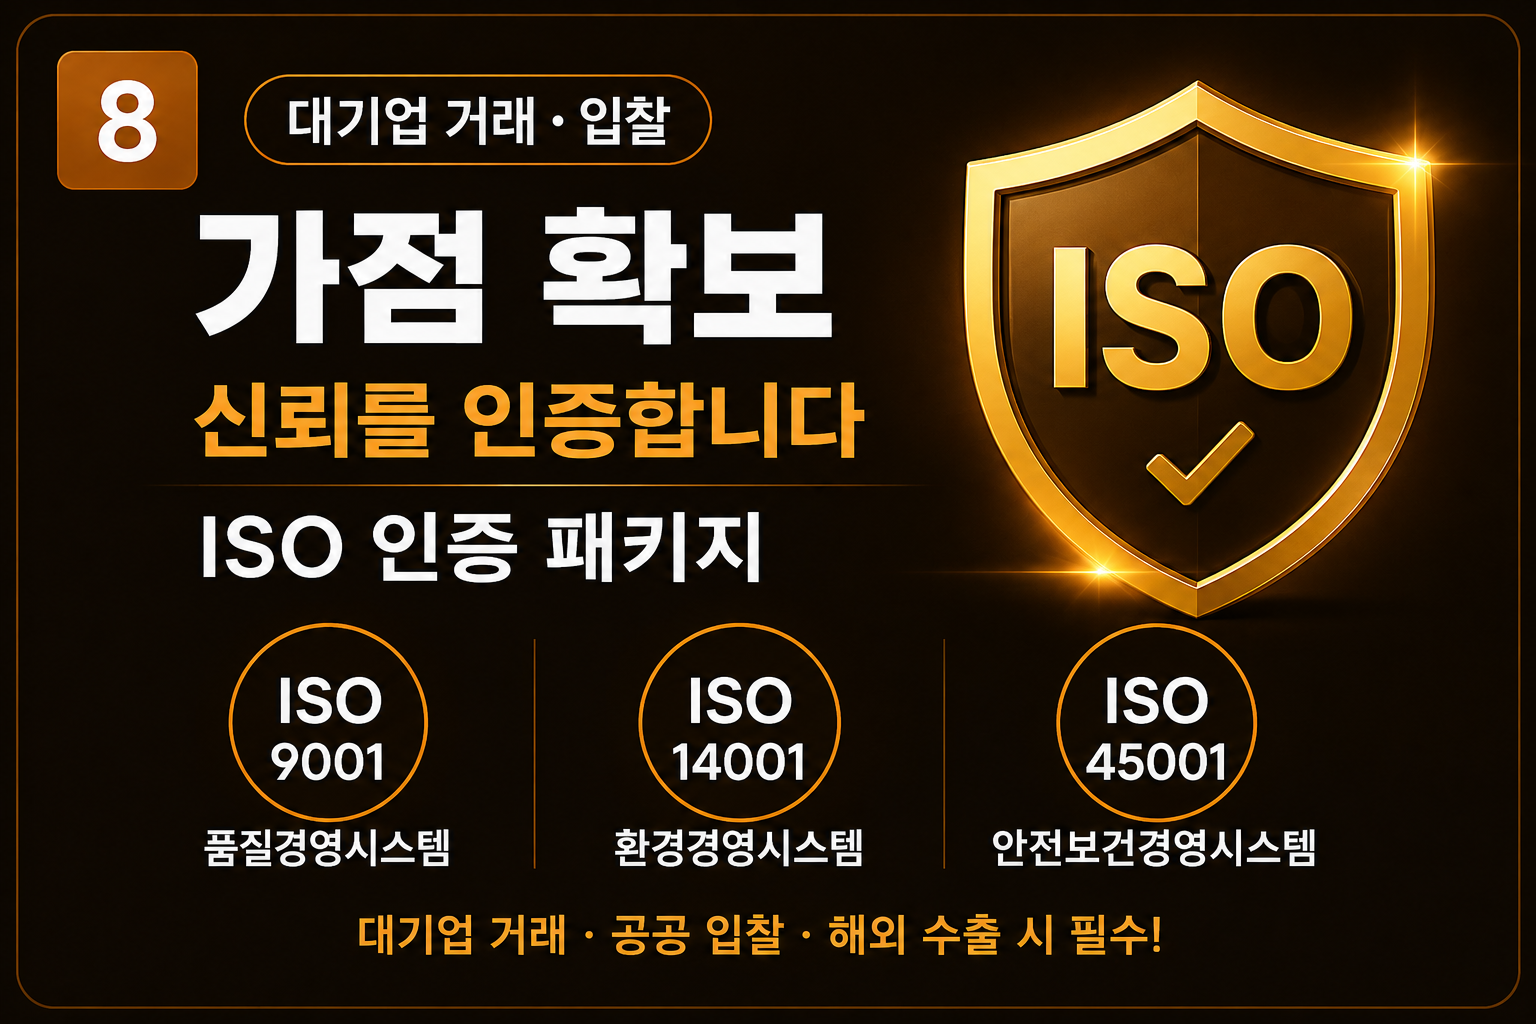
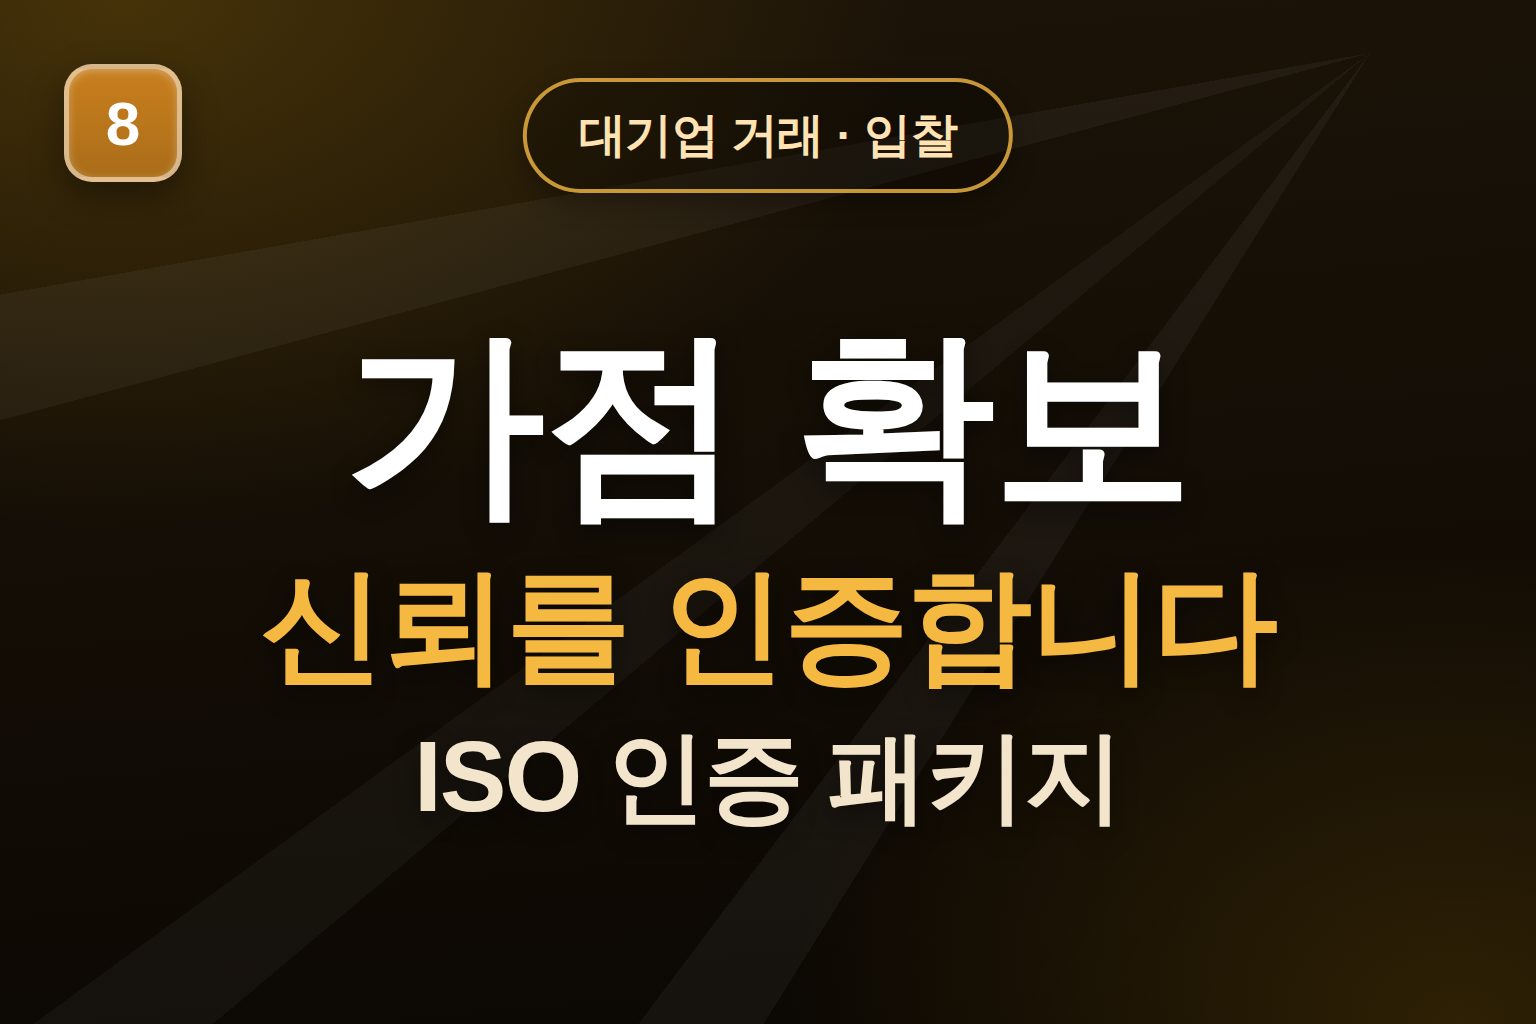
상품 썸네일 12종 전면 재제작 — 배지+필+핵심 문구만, 가운데 정렬·확대
- 11개 원본 배너의 그래픽(동전·차트·아이콘·기기)·하단 안내줄·아이콘 3종 줄 전부 제거
- 공통 템플릿: 좌상단 숫자 배지(1~11) + 상단 중앙 필 + 핵심 문구 3줄(가운데 정렬·대형)
  · 상품별 원본 팔레트 유지(네이비/그린/퍼플/골드/레드/시안), Pretendard 렌더링(1536x1024)
  · 벤처(투자)·연구소는 요건 유의 각주 유지
- AX 풀 패키지 전용 배너 신규 제작(기존 회사 AX 시스템 이미지 공유 해소)
- 썸네일에서 제거된 핵심 문구는 카드 체크리스트(highlights)로 이관:
  벤처(투자) 소득공제·회수구조, 연구소 R&D 세액공제, ISO 3종 시스템 명칭,
  이노비즈 브랜드 가치, 풀패키지 리스크 최소화·원스톱 관리, 홈페이지 신뢰도·문의 증가

Claude-Session: https://claude.ai/code/session_0127QvWRVvHFDHQbBmPVBCzc

diff --git a/src/data/businessPackages.ts b/src/data/businessPackages.ts
@@ -193,7 +193,7 @@ export const businessPackages: BusinessPackage[] = [
     short: '연봉 1억 이상 전문직·자산가들이 많이 활용하는 절세 전략입니다.',
     price: '499만원',
     amount: 4990000,
-    highlights: ['전문직·자산가 절세 전략', '소득공제 가능성 안내', '투자금 회수 구조 설명', '벤처확인(투자유형) 준비'],
+    highlights: ['소득공제 최대 4,400만원 — 요건 충족 시', '3년 후 투자금 전액 회수 구조 설명', '연봉 1억+ 전문직·자산가 절세 전략', '벤처확인(투자유형) 준비'],
     highlightNote: '연봉 1억 이상 전문직·자산가들이 많이 활용하는 절세 전략',
     recommendedFor: ['연봉 1억 이상 전문직·자산가 대표님', '투자유형으로 벤처확인과 소득공제를 함께 검토하려는 대표님'],
     deliverables: ['투자유형 구조 검토', '소득공제 가능성 안내', '투자금 회수 구조 설명', '벤처확인 준비 방향 정리'],
@@ -221,7 +221,7 @@ export const businessPackages: BusinessPackage[] = [
     short: '24시간 일하는 온라인 영업사원',
     price: '99만원',
     amount: 990000,
-    highlights: ['모바일·PC 완벽 대응', '문의 유입 구조 구성', '브랜드 가치 향상'],
+    highlights: ['모바일·PC 완벽 대응', '신뢰도 상승 · 문의 증가', '브랜드 가치 향상'],
     highlightNote: '고객이 믿는 첫인상, 24시간 일하는 온라인 영업사원',
     recommendedFor: ['온라인에서 회사를 보여줄 홈페이지가 필요한 대표님', '모바일까지 대응되는 반응형 홈페이지를 원하는 기업'],
     deliverables: ['반응형 홈페이지', '회사 소개 구조 정리', '서비스·문의 섹션 구성', '모바일 최적화'],
@@ -291,7 +291,7 @@ export const businessPackages: BusinessPackage[] = [
       { q: '한 번에 다 구축하나요?', a: '우선순위를 정해 단계적으로 진행합니다. 무엇부터 할지는 종합 진단에서 함께 정합니다.' },
     ],
     visualType: 'mvp',
-    imageSrc: '/assets/business-services/ai-ax-system.png',
+    imageSrc: '/assets/business-services/ax-full-package.png',
     notice:
       'AX 풀 패키지의 구축 범위·산출물·비용은 기업 상황에 따라 달라지며, 상담을 통해 확정됩니다.',
   },
@@ -307,7 +307,7 @@ export const businessPackages: BusinessPackage[] = [
     price: '149만원',
     amount: 1490000,
     priceNote: '사후관리 월 2만원 선택',
-    highlights: ['R&D 세액공제 활용', '정부지원사업 가점 부여', '정책자금 우대 혜택'],
+    highlights: ['R&D 세액공제 — 최대 수천만원', '정부지원사업 가점 부여', '정책자금 우대 혜택'],
     highlightNote: '정부지원사업·정책자금 가점 확보에 도움이 됩니다.',
     recommendedFor: ['정부지원사업·정책자금 가점을 확보하고 싶은 대표님', '연구개발 활동을 체계화하려는 법인'],
     deliverables: ['연구소/연구전담부서 설립 방향 진단', '설립 요건·인력 기준 정리', '필요 서류 및 신청 절차 안내', '설립 후 사후관리 안내'],
@@ -339,7 +339,7 @@ export const businessPackages: BusinessPackage[] = [
       { optionId: 'iso-two', label: 'ISO 2종', amount: 2180000, note: '2개 규격 선택' },
       { optionId: 'iso-three', label: 'ISO 3종 패키지', amount: 3990000, badge: '할인' },
     ],
-    highlights: ['ISO 9001 품질경영', 'ISO 14001 환경경영', 'ISO 45001 안전보건경영'],
+    highlights: ['ISO 9001 품질경영시스템', 'ISO 14001 환경경영시스템', 'ISO 45001 안전보건경영시스템'],
     highlightNote: '대기업 거래 · 공공입찰 · 해외수출 준비에 활용됩니다.',
     recommendedFor: ['대기업 거래·공공입찰을 준비하는 기업', '해외 수출을 준비하는 기업'],
     deliverables: ['ISO 인증 유형 진단 (9001/14001/45001)', '요구사항·문서화 방향 정리', '심사 준비 자료 안내', '3종 패키지 통합 진행 옵션'],
@@ -391,7 +391,7 @@ export const businessPackages: BusinessPackage[] = [
     short: '기술혁신기업 인증을 통한 정책자금·정부지원사업 우대',
     price: '249만원',
     amount: 2490000,
-    highlights: ['정책자금 우대 혜택', '정부지원사업 선정 가점', '기술혁신 기업 가치 상승'],
+    highlights: ['정책자금 우대 혜택', '정부지원사업 선정 가점', '기술혁신 기업 — 브랜드 가치 상승'],
     highlightNote: '기술혁신형 중소기업으로 성장의 기회를 넓히세요.',
     recommendedFor: ['기술혁신 역량을 인증으로 정리하려는 기업', '정책자금·정부지원사업 우대를 준비하는 대표님'],
     deliverables: ['이노비즈 인증 방향 진단', '기술혁신 평가 항목 정리', '신청 준비 자료 안내'],
@@ -418,7 +418,7 @@ export const businessPackages: BusinessPackage[] = [
     price: '상담 후 결정',
     priceNote: '기업 상황에 따라 맞춤 견적',
     priceType: 'consult',
-    highlights: ['자금·인증·홈페이지·AI 한 번에 설계', '전문가 전담 — 원스톱 진행 관리', '대표님은 사업에만 집중', '우선순위별 단계 실행 로드맵', '안정적 성장 관리'],
+    highlights: ['자금 조달·성장 전략·맞춤 솔루션 통합 설계', '리스크 최소화 — 안정적 성장', '전문가 전담 원스톱 관리', '우선순위별 단계 실행 로드맵', '대표님은 사업에만 집중'],
     highlightNote: '복잡한 과정을 한 번에, 대표님은 사업에만 집중하세요.',
     recommendedFor: ['사업에 집중하면서 성장 구조 전체를 맡기고 싶은 대표님', '정책자금·인증·홈페이지·AI를 한 번에 설계하려는 기업'],
     deliverables: ['통합 성장 로드맵 설계', '정책자금·인증 우선순위 정리', '홈페이지·AI 시스템 구축 계획', '단계별 실행 및 진행 관리'],
